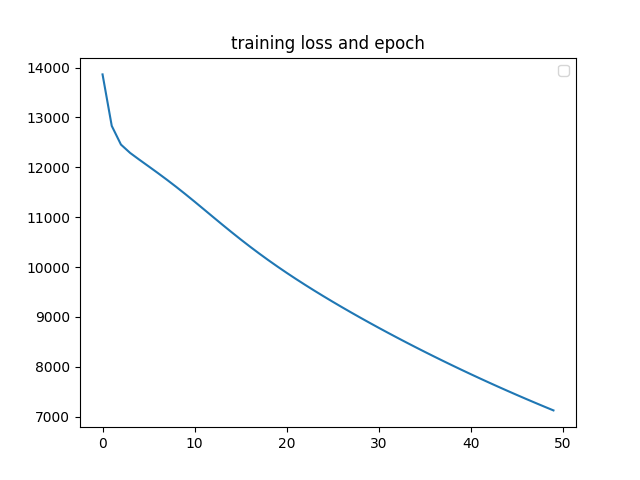
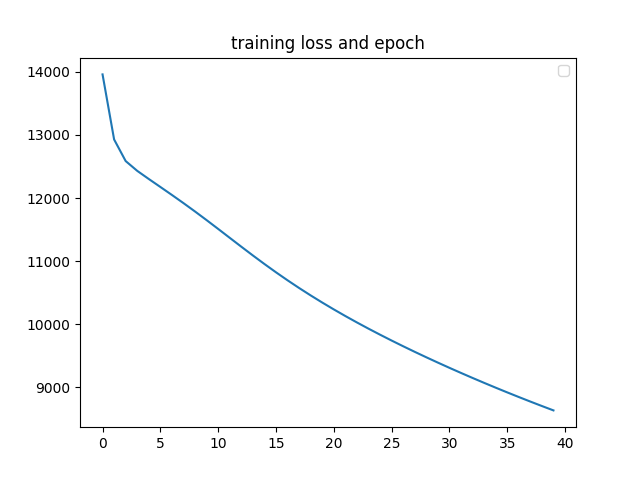
added code for performing tuning k and lambda of part A Q3 NN

diff --git a/part_a/neural_network.py b/part_a/neural_network.py
@@ -10,7 +10,7 @@ import numpy as np
 import torch
 
 
-def load_data(base_path="./data"):
+def load_data(base_path="../data"):
     """ Load the data in PyTorch Tensor.
 
     :return: (zero_train_matrix, train_data, valid_data, test_data)
@@ -23,7 +23,6 @@ def load_data(base_path="./data"):
         test_data: A dictionary {user_id: list,
         user_id: list, is_correct: list}
     """
-    train_data = load_train_csv(base_path)
     train_matrix = load_train_sparse(base_path).toarray()
     valid_data = load_valid_csv(base_path)
     test_data = load_public_test_csv(base_path)
@@ -35,7 +34,7 @@ def load_data(base_path="./data"):
     zero_train_matrix = torch.FloatTensor(zero_train_matrix)
     train_matrix = torch.FloatTensor(train_matrix)
 
-    return zero_train_matrix, train_matrix, train_data, valid_data, test_data
+    return zero_train_matrix, train_matrix, valid_data, test_data
 
 
 class AutoEncoder(nn.Module):
@@ -82,15 +81,15 @@ class AutoEncoder(nn.Module):
         return out
 
 
-def train(model, lr, lamb, train_matrix, zero_train_matrix, train_data, valid_data, num_epoch):
+def train(model, lr, lamb, train_data, zero_train_data, valid_data, num_epoch):
     """ Train the neural network, where the objective also includes
     a regularizer.
 
     :param model: Module
     :param lr: float
     :param lamb: float -> for regularization
-    :param train_matrix: 2D FloatTensor
-    :param zero_train_matrix: 2D FloatTensor
+    :param train_data: 2D FloatTensor
+    :param zero_train_data: 2D FloatTensor
     :param valid_data: Dict
     :param num_epoch: int
     :return: None
@@ -102,28 +101,28 @@ def train(model, lr, lamb, train_matrix, zero_train_matrix, train_data, valid_da
     model.train()
     # Define optimizers and loss function.
     optimizer = optim.SGD(model.parameters(), lr=lr)
-    num_student = train_matrix.shape[0]
+    num_student = train_data.shape[0]
     loss_recording = []
     valid_acc_record = []
     epoch_record = []
+    highest_valid_acc = 0
     for epoch in range(0, num_epoch):
         train_loss = 0.
         # norm = model.get_weight_norm()
         # denom = 2
         for user_id in range(num_student):
 
-            inputs = Variable(zero_train_matrix[user_id]).unsqueeze(0)
+            inputs = Variable(zero_train_data[user_id]).unsqueeze(0)
             target = inputs.clone()
 
             optimizer.zero_grad()
             output = model(inputs)
 
             # Mask the target to only compute the gradient of valid entries.
-            nan_mask = np.isnan(train_matrix[user_id].unsqueeze(0).numpy())
+            nan_mask = np.isnan(train_data[user_id].unsqueeze(0).numpy())
             target[0][nan_mask] = output[0][nan_mask]
 
             norm = model.get_weight_norm()
-            # denom = 2 * num_student
             denom = 2
             loss = torch.sum((output - target) ** 2.) + (lamb / denom) * norm
             # loss = torch.sum((output - target) ** 2.)
@@ -134,16 +133,15 @@ def train(model, lr, lamb, train_matrix, zero_train_matrix, train_data, valid_da
             train_loss += loss.item()
             optimizer.step()
 
-        train_acc = evaluate(model, zero_train_matrix, train_data)
-        valid_acc = evaluate(model, zero_train_matrix, valid_data)
-        print("Epoch: {} \tTraining Cost: {:.6f}\t "
-              "Train Acc: {}".format(epoch, train_loss, train_acc))
+        valid_acc = evaluate(model, zero_train_data, valid_data)
         print("Epoch: {} \tTraining Cost: {:.6f}\t "
               "Valid Acc: {}".format(epoch, train_loss, valid_acc))
         loss_recording.append(train_loss)
         valid_acc_record.append(valid_acc)
         epoch_record.append(epoch)
+        highest_valid_acc = max(highest_valid_acc, valid_acc)
     plot(epoch_record, loss_recording, valid_acc_record)
+    return highest_valid_acc
     #####################################################################
     #                       END OF YOUR CODE                            #
     #####################################################################
@@ -189,7 +187,7 @@ def evaluate(model, train_data, valid_data):
 
 
 def main():
-    zero_train_matrix, train_matrix, train_data, valid_data, test_data = load_data()
+    zero_train_matrix, train_matrix, valid_data, test_data = load_data()
 
     #####################################################################
     # TODO:                                                             #
@@ -197,16 +195,52 @@ def main():
     # validation set.                                                   #
     #####################################################################
     # Set model hyperparameters.
+    # k_list = [10, 50, 100, 200, 500]
+    # k_accuracy = []
+    # for k in k_list:
+    #     model = AutoEncoder(train_matrix.shape[1], k)
+    #
+    # # Set optimization hyperparameters.
+    #     lr = 0.01
+    #     num_epoch = 50
+    #     lamb = 0.1
+    #
+    #     highest_acc = train(model, lr, lamb, train_matrix, zero_train_matrix,
+    #         valid_data, num_epoch)
+    #     test_result = evaluate(model, zero_train_matrix, test_data)
+    #     print("test accuracy: \n" + str(test_result))
+    #     k_accuracy.append(highest_acc)
+    # best_k = k_accuracy.index(max(k_accuracy))
+    # print("will use this k for further procedure due to its highest accuracy:" + str(best_k))4
+
+    # lambda_list = [1, 0.1, 0.01, 0.001]
+    # lambda_accuracy = []
+    # for lamb in lambda_list:
+    #     k = 50
+    #     model = AutoEncoder(train_matrix.shape[1], k)
+    #
+    # # Set optimization hyperparameters.
+    #     lr = 0.01
+    #     num_epoch = 50
+    #
+    #     highest_acc = train(model, lr, lamb, train_matrix, zero_train_matrix,
+    #         valid_data, num_epoch)
+    #     test_result = evaluate(model, zero_train_matrix, test_data)
+    #     print("test accuracy: \n" + str(test_result))
+    #     lambda_accuracy.append(highest_acc)
+    # best_lambda = lambda_accuracy.index(max(lambda_accuracy))
+    # print("will use this lambda for further procedure due to its highest accuracy:" + str(best_lambda))
+
     k = 50
     model = AutoEncoder(train_matrix.shape[1], k)
 
     # Set optimization hyperparameters.
     lr = 0.01
-    num_epoch = 50
-    lamb = 0.005
+    num_epoch = 40
+    lamb = 0.001
 
-    train(model, lr, lamb, train_matrix, zero_train_matrix, train_data,
-          valid_data, num_epoch)
+    train(model, lr, lamb, train_matrix, zero_train_matrix,
+        valid_data, num_epoch)
     test_result = evaluate(model, zero_train_matrix, test_data)
     print("test accuracy: \n" + str(test_result))
     #####################################################################

diff --git a/partB_test/neural_network.py b/partB_test/neural_network.py
@@ -84,7 +84,7 @@ class AutoEncoder(nn.Module):
         inner = self.g.forward(inputs + user_bias)
         inner_act = nn.Tanh()(inner)
         hidden1 = self.i1.forward(inner_act)
-        # hidden1_act = nn.Sigmoid()(hidden1)
+        #hidden1_act = nn.Sigmoid()(hidden1)
         hidden2 = self.i2.forward(hidden1)
         hidden2_act = nn.Sigmoid()(hidden2)
         hidden3 = self.i3.forward(hidden2_act)
@@ -213,8 +213,8 @@ def main():
     #####################################################################
     # Set model hyperparameters.
 
-    k = 100
-    l = 30
+    k = 200
+    l = 50
     m = 10
     model = AutoEncoder(train_matrix.shape[1], k, l, m)
     user_data = fill_null_data_user()
